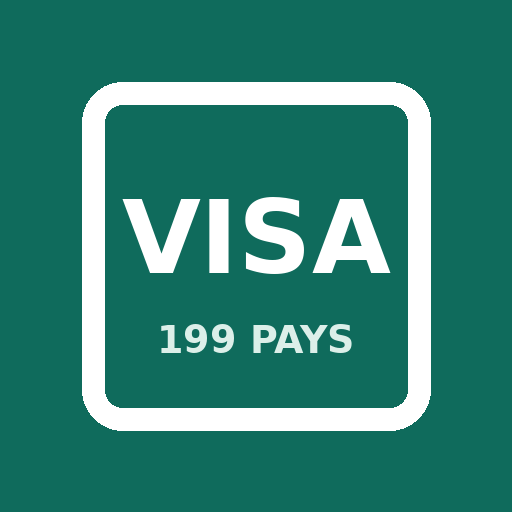
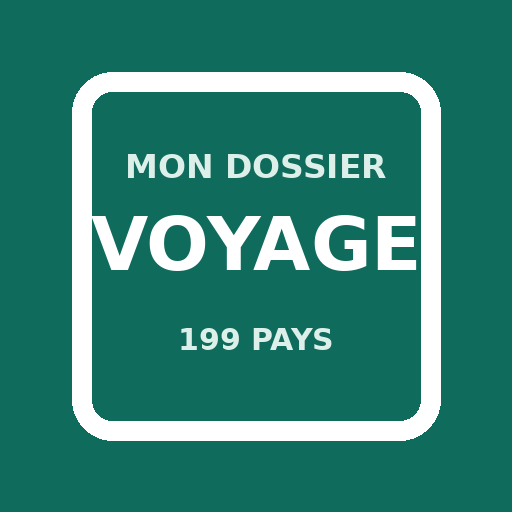
Nouveau nom : Mon Dossier Voyage
Claude-Session: https://claude.ai/code/session_01AdSDTsbJNxwWaBSahHiM6q

diff --git a/mentions-legales.html b/mentions-legales.html
@@ -3,7 +3,7 @@
 <head>
 <meta charset="utf-8">
 <meta name="viewport" content="width=device-width,initial-scale=1">
-<title>Mentions légales · Mon Dossier Visa</title>
+<title>Mentions légales · Mon Dossier Voyage</title>
 <link rel="icon" href="icons/icon-192.png">
 <style>
 :root{--bg:#eef2f4;--surface:#fff;--ink:#14233a;--muted:#56657a;--line:#d5dde5;--accent:#0f6b5c;--warn:#8a5a00;--warn-soft:#fbefd5}
@@ -22,7 +22,7 @@ h1{font-size:28px;margin:0 0 8px}h2{font-size:19px;margin:28px 0 6px}p,li{max-wi
 <p class="muted">Dernière mise à jour : 8 octobre 2026</p>
 
 <h2>Éditeur du site</h2>
-<p>Mon Dossier Visa est édité par <span class="todo">[Nom et prénom ou raison sociale]</span>, <span class="todo">[adresse complète, Lomé, Togo]</span>.<br>
+<p>Mon Dossier Voyage est édité par <span class="todo">[Nom et prénom ou raison sociale]</span>, <span class="todo">[adresse complète, Lomé, Togo]</span>.<br>
 Contact : <span class="todo">[adresse e-mail]</span> · <span class="todo">[téléphone]</span><br>
 Numéro RCCM : <span class="todo">[à compléter après immatriculation]</span> · NIF : <span class="todo">[à compléter]</span><br>
 Directeur de la publication : <span class="todo">[nom]</span></p>
@@ -31,7 +31,7 @@ Directeur de la publication : <span class="todo">[nom]</span></p>
 <p>Le site est hébergé par GitHub, Inc. (service GitHub Pages), 88 Colin P. Kelly Jr. Street, San Francisco, CA 94107, États-Unis.</p>
 
 <h2>Nature du service</h2>
-<p>Mon Dossier Visa est un outil d'information et de préparation de dossiers de voyage. Il n'est lié à aucune ambassade, aucun consulat, aucune administration ni aucune compagnie aérienne. Il ne délivre pas de visa, ne prend pas de rendez-vous consulaire et ne vend pas de billet.</p>
+<p>Mon Dossier Voyage est un outil d'information et de préparation de dossiers de voyage. Il n'est lié à aucune ambassade, aucun consulat, aucune administration ni aucune compagnie aérienne. Il ne délivre pas de visa, ne prend pas de rendez-vous consulaire et ne vend pas de billet.</p>
 <p>La décision d'accorder un visa appartient uniquement aux autorités du pays de destination. Aucune information du site ne constitue une garantie d'obtention d'un visa ni un conseil juridique.</p>
 
 <h2>Exactitude des informations</h2>

diff --git a/index.html b/index.html
@@ -5,7 +5,7 @@
 <meta name="viewport" content="width=device-width,initial-scale=1,viewport-fit=cover">
 <meta name="description" content="Faut-il un visa ? Vérifie les exigences entre 199 pays, prépare ton dossier pas à pas, trouve les ambassades, les vols et les démarches à l'arrivée.">
 <meta name="theme-color" content="#0f6b5c">
-<meta property="og:title" content="Mon Dossier Visa">
+<meta property="og:title" content="Mon Dossier Voyage">
 <meta property="og:description" content="Visa, ambassades, papiers, vols et démarches d'arrivée pour 199 pays.">
 <meta property="og:type" content="website">
 <meta property="og:image" content="icons/icon-512.png">
@@ -15,7 +15,7 @@
 <style>html{color-scheme:light}:root{padding-top:env(safe-area-inset-top,0px);padding-bottom:env(safe-area-inset-bottom,0px)}body{margin:0}img{max-width:100%}[hidden]{display:none!important}</style>
 </head>
 <body>
-<title>Mon Dossier Visa</title>
+<title>Mon Dossier Voyage</title>
 <link rel="preconnect" href="https://fonts.googleapis.com">
 <link rel="stylesheet" href="https://fonts.googleapis.com/css2?family=Bricolage+Grotesque:opsz,wght@12..96,600;12..96,800&family=Source+Sans+3:wght@400;600;700&family=IBM+Plex+Mono:wght@500&display=swap">
 <style>
@@ -168,7 +168,7 @@ select.mid-select{font:600 16px var(--body);color:var(--ink);background:var(--bg
   <header>
     <div style="display:grid;gap:8px">
       <span class="eyebrow">199 passeports · 199 destinations</span>
-      <h1>Mon Dossier Visa</h1>
+      <h1>Mon Dossier Voyage</h1>
       <p class="sub">Choisis ta nationalité et ta destination. L'application te dit s'il faut un visa et te guide pour la demande. L'espace pays regroupe les rendez-vous, les facilités, les programmes, l'emploi et le logement.</p>
     </div>
     <div class="passport">DONNÉES VISA · <span id="dVisa">17.02.2026</span><br>MISES À JOUR · <span id="dBuilt">08.10.2026</span></div>

diff --git a/confidentialite.html b/confidentialite.html
@@ -3,7 +3,7 @@
 <head>
 <meta charset="utf-8">
 <meta name="viewport" content="width=device-width,initial-scale=1">
-<title>Confidentialité · Mon Dossier Visa</title>
+<title>Confidentialité · Mon Dossier Voyage</title>
 <link rel="icon" href="icons/icon-192.png">
 <style>
 :root{--bg:#eef2f4;--surface:#fff;--ink:#14233a;--muted:#56657a;--line:#d5dde5;--accent:#0f6b5c;--warn:#8a5a00;--warn-soft:#fbefd5}
@@ -24,7 +24,7 @@ button:focus-visible{outline:3px solid var(--accent);outline-offset:2px}
 <p class="muted">Dernière mise à jour : 8 octobre 2026</p>
 
 <h2>En résumé</h2>
-<p>Mon Dossier Visa n'a pas de serveur ni de comptes utilisateurs. Ce que tu saisis (nom, profession, dates, cases cochées) reste dans le navigateur de ton appareil et n'est envoyé ni à l'éditeur ni à un tiers.</p>
+<p>Mon Dossier Voyage n'a pas de serveur ni de comptes utilisateurs. Ce que tu saisis (nom, profession, dates, cases cochées) reste dans le navigateur de ton appareil et n'est envoyé ni à l'éditeur ni à un tiers.</p>
 
 <h2>Ce qui est enregistré sur ton appareil</h2>
 <ul>

diff --git a/sw.js b/sw.js
@@ -1,7 +1,7 @@
-// Mon Dossier Visa: offline support.
+// Mon Dossier Voyage: offline support.
 // Pages and data are served from the network when possible (so updates show up at once),
 // and from the cache when the phone is offline.
-const CACHE = "mdv-v1";
+const CACHE = "mdv-v2";
 const CORE = [
   "./", "index.html", "mentions-legales.html", "confidentialite.html", "manifest.webmanifest",
   "icons/icon-192.png", "icons/icon-512.png",

diff --git a/scripts/build_data.py b/scripts/build_data.py
@@ -1,5 +1,5 @@
 #!/usr/bin/env python3
-"""Rebuild the data files used by Mon Dossier Visa.
+"""Rebuild the data files used by Mon Dossier Voyage.
 
 Usage:
   python scripts/build_data.py --visa PATH --embassies PATH --airports PATH [--zoneinfo /usr/share/zoneinfo] [--out data]

diff --git a/README.md b/README.md
@@ -1,4 +1,4 @@
-# Mon Dossier Visa
+# Mon Dossier Voyage
 
 Application web gratuite pour préparer un voyage à l'étranger :
 
